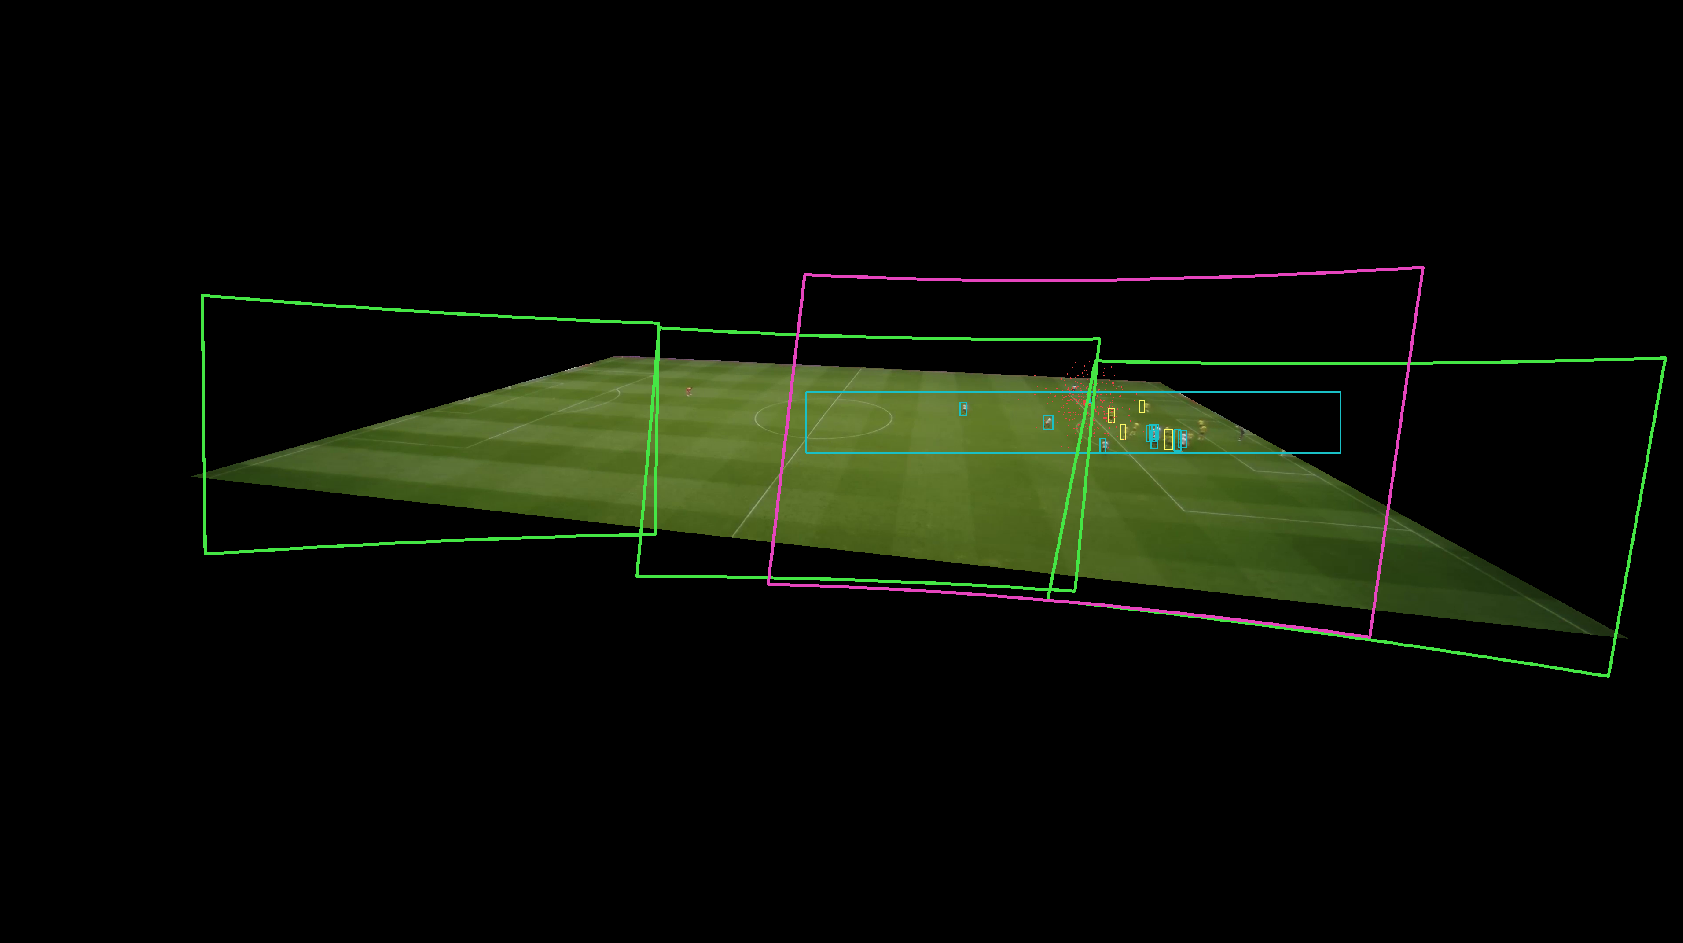
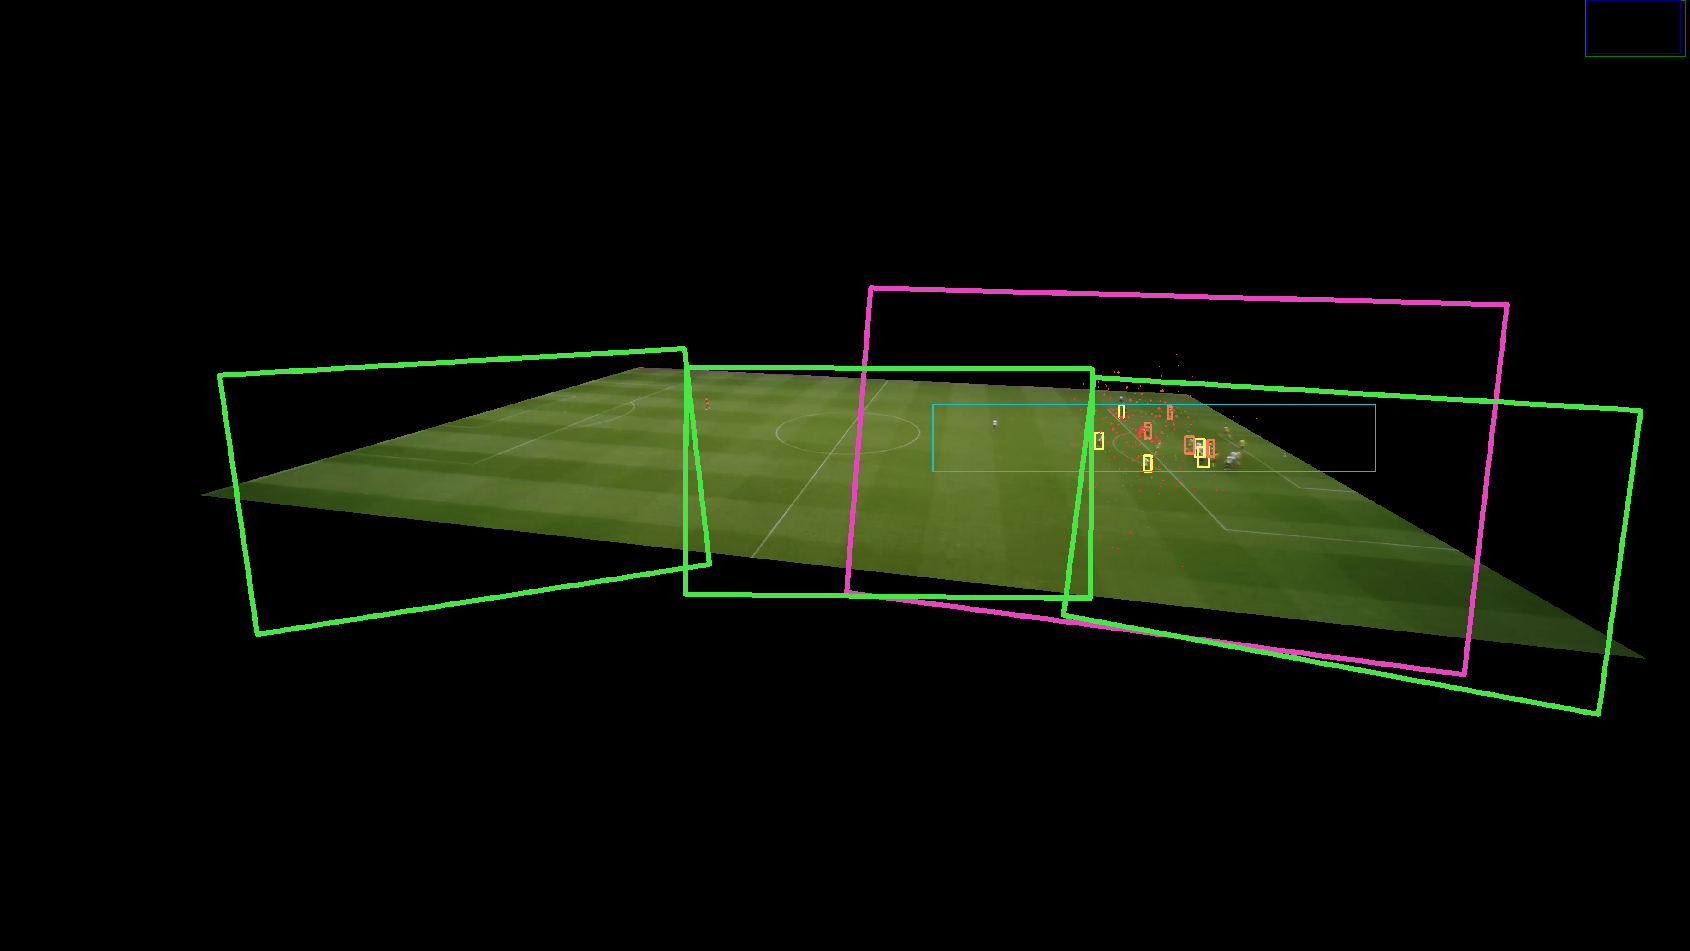
readme

diff --git a/src/camera/camera.py b/src/camera/camera.py
@@ -1,4 +1,5 @@
 from abc import ABC, abstractmethod
+from typing import Optional
 import cv2
 import numpy as np
 
@@ -29,7 +30,7 @@ class Camera(ABC, HasStats):
         self,
         frame_orig,
         config: Config,
-        ignore_bounds=Config.autocam["debug"]["ignore_bounds"]
+        ignore_bounds: Optional[bool] = None,
     ):
         h, w, _ = frame_orig.shape
         self.frame_orig_size = np.array([w, h], dtype=DT_INT)
@@ -40,7 +41,7 @@ class Camera(ABC, HasStats):
             [Camera.FRAME_W, Camera.FRAME_H], dtype=DT_INT)
 
         self.config = config
-        self.ignore_bounds = ignore_bounds
+        self.ignore_bounds = ignore_bounds or config.ignore_bounds
         self.sensor_w = Camera.SENSOR_W
 
         self._init_ptz(config)

diff --git a/src/utils/argparse.py b/src/utils/argparse.py
@@ -10,6 +10,7 @@ class AutocamArgsNamespace(argparse.Namespace):
     video_name: str
     hide_windows: bool
     no_debug: bool
+    ignore_bounds: bool
 
 
 def parse_args():
@@ -28,4 +29,6 @@ def parse_args():
                         help="Hide all windows while running.")
     parser.add_argument("--no-debug", action='store_true', default=False,
                         help="Do not generate debug frame.")
+    parser.add_argument("--ignore-bounds", action='store_true', default=False,
+                        help="Ignore camera PTZ bounds. May result in sampling outside of the original image.")
     return parser.parse_args(namespace=ns)

diff --git a/src/camera/rectilinear_camera.py b/src/camera/rectilinear_camera.py
@@ -1,4 +1,5 @@
 from functools import cached_property
+from typing import Optional
 import cv2
 import numpy as np
 from camera.camera import Camera
@@ -16,7 +17,7 @@ class RectilinearCamera(Camera):
         self,
         frame_orig,
         config: Config,
-        ignore_bounds=Config.autocam["debug"]["ignore_bounds"]
+        ignore_bounds: Optional[bool] = None
     ):
         self.lens_fov_horiz_deg = config.dataset["camera_params"]["lens_fov_horiz_deg"]
         self.pitch_tilt_deg = config.dataset["camera_params"]["pitch_tilt_deg"]

diff --git a/src/utils/config.py b/src/utils/config.py
@@ -15,6 +15,7 @@ class Config:
         self.args = args
         self.dataset = utils.load_yaml(Config.autocam["dataset"]["config"])
         self.video_path = Config.get_video_path(self.dataset, args)
+        self.ignore_bounds = args.ignore_bounds or Config.autocam["debug"]["ignore_bounds"]
 
         if args.record:
             self.save_autocam_config()

diff --git a/README.md b/README.md
@@ -1,6 +1,8 @@
 # Autocam
 
-Autocam is an automatic virtual cameraman. The input is a wide-angle recording of a soccer match containing the full pitch. Autocam automatically finds the interesting region of each frame, crops it so that it emulates pan-tilt-zoom of a camera on a tripod, and finally exports it as a new video.
+Autocam is an automatic virtual cameraman. The input is a wide-angle rectilinear video of a soccer match containing the full pitch. Autocam automatically finds the interesting region of each frame, crops it so that it emulates the pan-tilt-zoom (PTZ) of a camera on a tripod, and finally exports it as a new video.
+
+The system was developed as a part of a [diploma thesis](https://is.muni.cz/th/l78dh/?lang=en) by Attila Zsíros in 2023.
 
 ![Title main](assets/images/title_main.png)
 
@@ -15,17 +17,34 @@ Autocam is an automatic virtual cameraman. The input is a wide-angle recording o
     conda activate autocam
     ```
 
-2. Run Autocam on a sample video.
+2. Run Autocam on a provided sample video using the Makefile:
 
     ```shell
-    python src/main.py
+    # Run with debug visualizations.
+    make debug
+
+    # Run and control the camera by WASD keys.
+    # Use the `mouse_use_pid` option in config_autocam.yaml to control the camera by the mouse.
+    make debug_mouse
+
+    # Run without visualizations.
+    make no_debug
+
+    # Record the whole clip into the "./recordings folder".
+    make record
     ```
 
-    or using the provided Makefile:
+3. Use the `spacebar` to proceed to the next frame and `q` to exit.
 
-    ```shell
-    make run
-    ```
+## User control
+
+- `spacebar` — proceed to the next frame;
+- `q` — exit;
+- `-` and `+` — zoom (focal length);
+- `7` and `9` — pitch tilt correction angle;
+- `4` and `6` — original lens field of view;
+- `2` and `8` — sensor size;
+- `WASD` — camera movement (only in mouse mode, i.e., when executed by `make debug_mouse`);
 
 ## Config files
 
@@ -49,11 +68,11 @@ Under `/scripts`, you can find shell scripts for:
 - Recording folders of video clips (`record_clips.sh`).
   - It records all `*.mp4` files located in the specified folder.
 
-## TODO
+## Methods
 
-- [ ] Try running it on Windows
-- [ ] Mention spaces (ROI, Original frame, Top-down)
-- [ ] The application allows for visualization of the current state, including the region of interest (ROI) for each camera, detections
-      predicted camera center, and states for different modules , such as the PTZ or the PID. The presence of a particular visualization is controlled by the user in the configuration file.
-- [ ] Debug mode description
-- [ ] Our application assumes that the input is a rectilinear image. Thus, before running it on your dataset, make sure that you first undistort the input images.
+For a detailed description of the methods, refer to the [diploma thesis](https://is.muni.cz/th/l78dh/?lang=en).
+
+|              Detection Pipeline              |          Virtual Camera Algorithm          |
+| :------------------------------------------: | :----------------------------------------: |
+| ![](assets/images/Detection_pipeline@2x.png) | ![](assets/images/virtual_camera_algo.png) |
+
